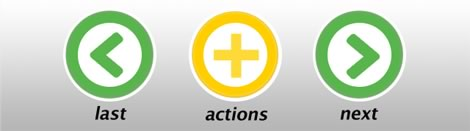
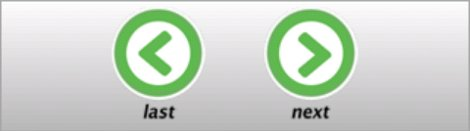
Android-ized (most) help files

diff --git a/android/assets/JFlash/help/studysets@2x.html b/android/assets/JFlash/help/studysets@2x.html
@@ -11,12 +11,12 @@
 
   <img src="screenshot-study-sets@2x.jpg" width="235" class="screenshot"/>
 
-  <p>To search, slide your finger down the screen to reveal a search bar.  Tap in part of a set name, and the results will appear in realtime.</p>
+  <p>To search, press the search key on your phone to reveal a search bar.  Tap in part of a set name, and the results will appear in realtime.</p>
 
   <img src="create-a-set@2x.png" width="300" title="Creating Sets" class="title"/>
   <p>
   Tap on the <strong>Study Sets</strong> icon and then tap the <strong>+</strong> icon in the upper right corner to add a new set.</p>
-  <p>To add new words to your new set, you can use <strong>Search</strong>, or you can also add cards to a set from another set using the <strong>Actions</strong> button.</p>
+  <p>To add new words to your new set, you can use <strong>Search</strong>, or you can also add cards to a set from another set using the <strong>Menu</strong> button on your phone, while on the <strong>Practice</strong> screen.</p>
 </div>
 
 

diff --git a/android/assets/JFlash/help/corrections@2x.html b/android/assets/JFlash/help/corrections@2x.html
@@ -8,11 +8,11 @@
 <div>
   <img src="corrections@2x.png" border="0" title="Corrections" width="300" class="title"/>
   <p>If you find things you believe are incorrect, please us know. It's quick &amp; easy!</p>
-  <p>Tap the <strong>Actions</strong> button on the <strong>Practice</strong> screen.  Tap <strong>Fix Card</strong>.</p>
+  <p>Tap the <strong>menu</strong> button on your phone while in the <strong>Practice</strong> screen.  Tap <strong>Fix Card</strong>.</p>
 
  <img src="screenshot-fix-card@2x.png" border="0"  width="235" class="screenshot"/>
   
-  <p>An email will pop up where you can send us details. Please give us as much info as you can! We'll endeavour to fix the card in a future version.</p>
+  <p>A prompt will pop up where you can email us details. Please give us as much info as you can! We'll endeavour to fix the card in a future version.</p>
 </div>
 </body>
 </html>

diff --git a/android/assets/JFlash/help/browse@2x.html b/android/assets/JFlash/help/browse@2x.html
@@ -14,8 +14,8 @@
   </p>
 
   <img src="screenshot-card-browse-buttons@2x.jpg" border="0"  width="235" class="screenshot"/>
-  <p>Once in Browse Mode, you can move backwards &amp; forwards through the set by tapping the <strong>Last</strong> &amp; <strong>Next</strong> buttons.
-    Using the <strong>Actions</strong> button, you can add the card to other sets (including your starred words), tweet the word, or report a correction.
+  <p>Once in Browse Mode, you can move backwards &amp; forwards through the set by tapping the <strong>Last</strong> &amp; <strong>Next</strong> buttons.</p>
+    <p>Using the <strong>menu</strong> button on your phone, you can add the card to other sets (including your starred words), tweet the word, or report a correction.
   </p>
   </div>
 </div>

diff --git a/android/assets/JFlash/help/practice@2x.html b/android/assets/JFlash/help/practice@2x.html
@@ -11,7 +11,7 @@
   Once the meaning is revealed, you can indicate whether you got it <strong>right</strong> or <strong>wrong</strong>. 
   If you know the word already, or simply don't like it, you can press <strong>bury it</strong> - the card will immediately become <strong>Learned</strong>.
   </p>
-  <p>Using the <strong>Actions</strong> button, you can add the card to other sets (including your starred words), tweet the word, or report a correction.</p>
+  <p>Using the <strong>Menu</strong> button on your phone, you can add the card to other sets (including your starred words), tweet the word, or report a correction.</p>
 
   <img src="screenshot-card-buttons@2x.png"  width="235" class="screenshot" />
   <p>
